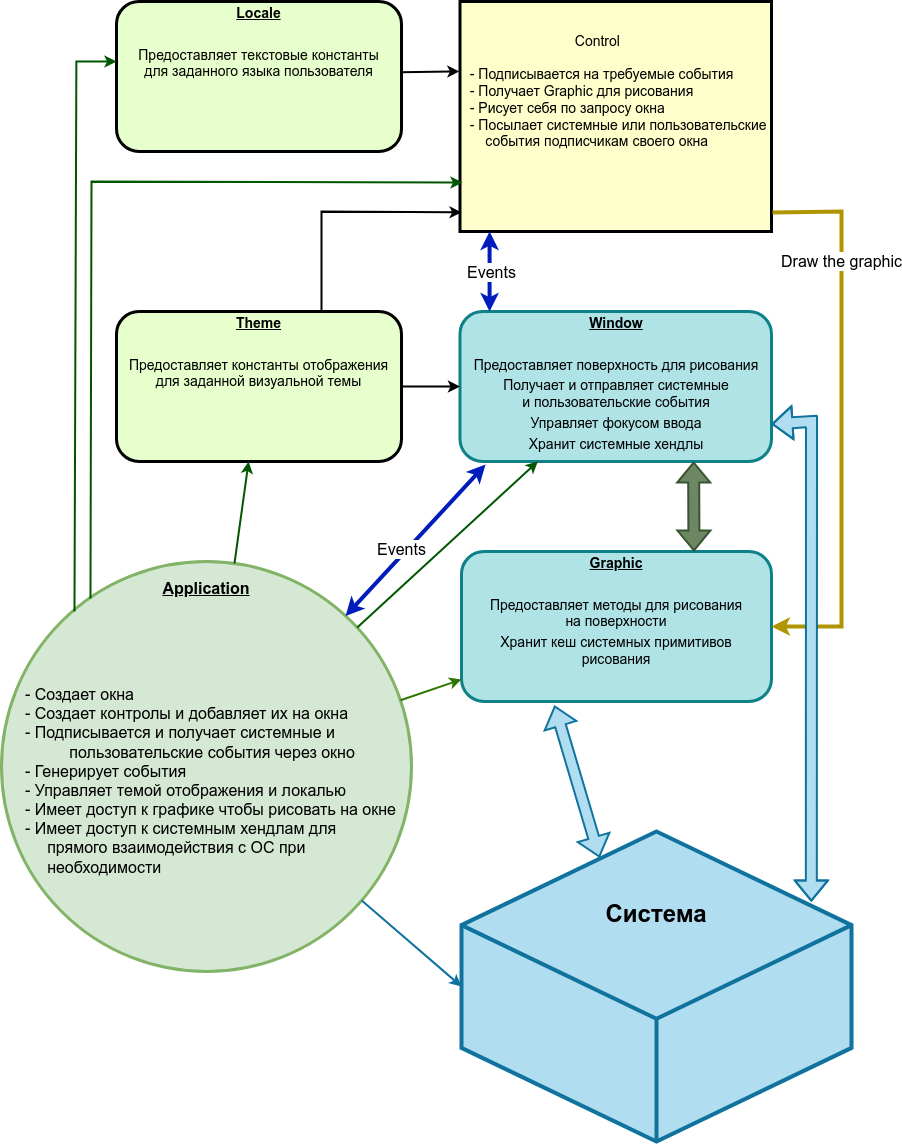
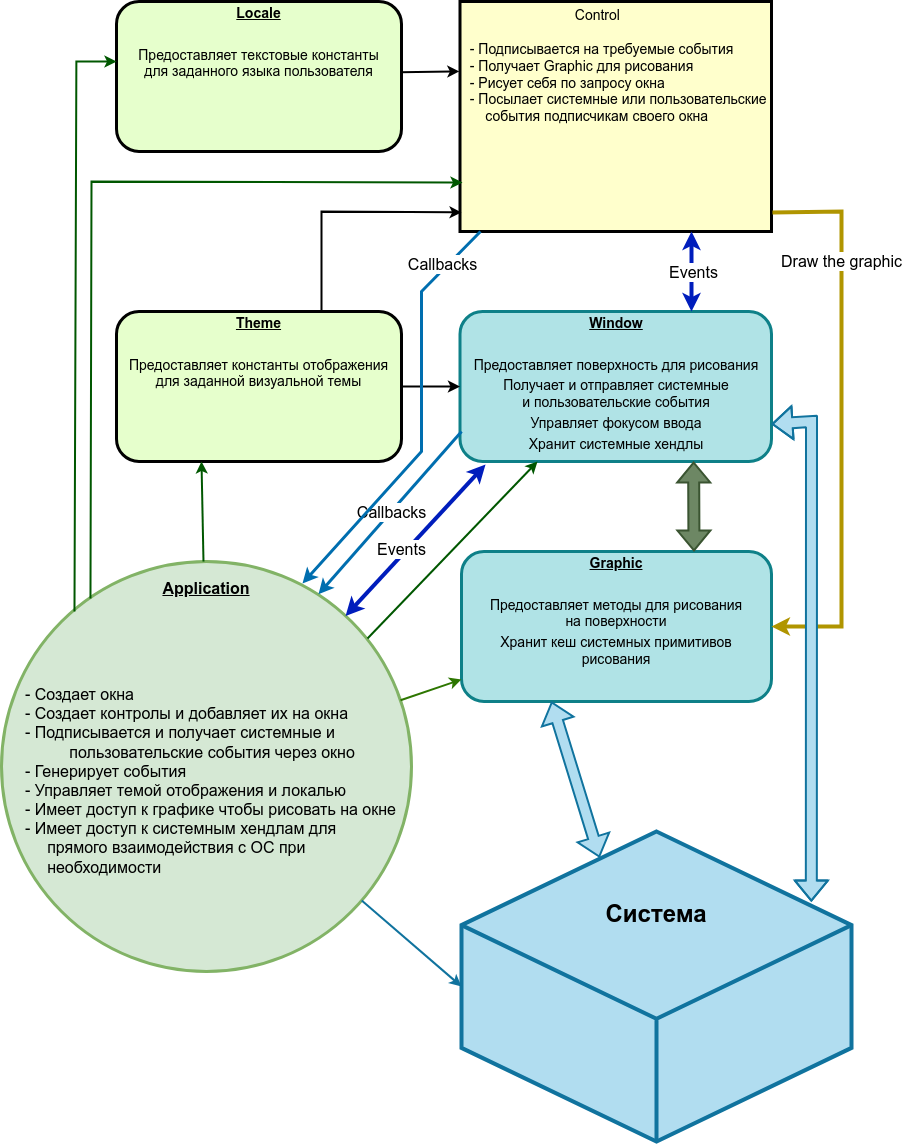
upd

diff --git a/doc/index.html b/doc/index.html
@@ -246,5 +246,5 @@ Control knows how to handle events coming from Window, stores its states, and dr
 
 <!--
 MkDocs version : 1.5.3
-Build Date UTC : 2023-10-06 11:21:25.664460+00:00
+Build Date UTC : 2023-10-07 04:45:01.142857+00:00
 -->

diff --git a/doc_ru/index.html b/doc_ru/index.html
@@ -246,5 +246,5 @@ Control знает, как обрабатывать события, поступ
 
 <!--
 MkDocs version : 1.5.3
-Build Date UTC : 2023-10-06 11:21:26.044821+00:00
+Build Date UTC : 2023-10-07 04:45:01.551457+00:00
 -->
